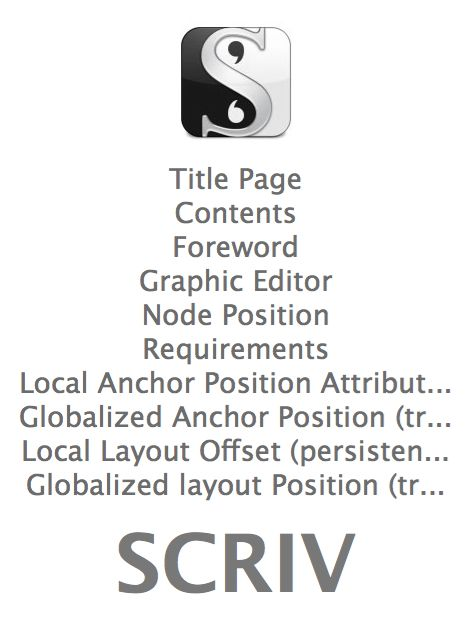
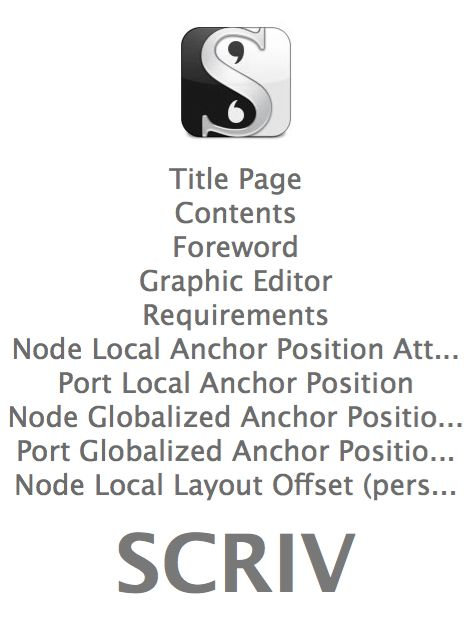
Requirements update for local anchor and layout positions.

Changed region(s): [[0.0, 0.4833, 0.9788, 0.8156]]

diff --git a/Documentation/iCanScript Design.scriv/QuickLook/Preview.html b/Documentation/iCanScript Design.scriv/QuickLook/Preview.html
@@ -42,31 +42,36 @@
 <hr/>
 <ul>
 <li>
-<p class="binderItem"><strong>Node Position</strong></p>
-</li>
-<hr/>
-<ul>
-<li>
 <p class="binderItem"><strong>Requirements</strong></p>
 </li>
 <hr/>
 <ul>
 <li>
-<p class="binderItem"><strong>Local Anchor Position Attribute (persistent)</strong><br/> Req) The local node anchor position is a persistent attribute that maintains the user desired position to the parent node before collision resolution.  The anchor position is relative (local) to the parent node position.  The anchor position of the root node is an exception as it is a global position.<br/>
+<p class="binderItem"><strong>Node Local Anchor Position Attribute (persistent)</strong><br/> Req) The local node anchor position is a persistent attribute that maintains the user desired position to the parent node before collision resolution.  The anchor position is relative (local) to the parent node position.  The anchor position of the root node is an exception as it is a global position.<br/>
  Req) The local anchor position shall not be changed when performing a fold/unfold/iconize operation.<br/>
  Req) The local anchor position shall not be changed when the node is not visible.<br/>
  Req) The l...</p>
 </li>
 <li>
-<p class="binderItem"><strong>Globalized Anchor Position (transient)</strong><br/> Req) The globalized anchor position is the position of the anchor in global space computed by adding the parent globalized layout position to the node’s local anchor position.</p>
+<p class="binderItem"><strong>Port Local Anchor Position</strong></p>
 </li>
 <li>
-<p class="binderItem"><strong>Local Layout Offset (persistent)</strong><br/> Req) The node local layout offset is a persistent attribute that maintains the final display position of the node after the collision algorithm has been applied.  It is derived from the local anchor position on which the node collision algorithm is applied.<br/>
- Req) The local layout offset shall be changed if the user drags the node.  The local anchor position shall also be recomputed to reflect the user drag.<br/>
- Req) The local layout offset shall not be changed if the user drags the parent or any p...</p>
+<p class="binderItem"><strong>Node Globalized Anchor Position (transient)</strong><br/> Req) The globalized anchor position is the position of the anchor in global space computed by adding the parent globalized layout position to the node’s local anchor position.</p>
 </li>
 <li>
-<p class="binderItem"><strong>Globalized layout Position (transient)</strong><br/> Req) The globalized layout position is the display position in global space computed by adding the parent globalized layout position to the node’s local layout position.</p>
+<p class="binderItem"><strong>Port Globalized Anchor Position</strong></p>
+</li>
+<li>
+<p class="binderItem"><strong>Node Local Layout Offset (persistent)</strong><br/> Req) The node local layout offset is a persistent attribute that maintains the final display position of the node after the collision algorithm has been applied.  It is relative to the local anchor position.<br/>
+ Req) The node local layout offset is cleared when the user drags the node.  <br/>
+ Req) The node local layout offset shall not be changed if the user drags the parent or any parent ancestor node.<br/>
+ Req) The node local layout offset shall be changed if the node is involved in a collision resultin...</p>
+</li>
+<li>
+<p class="binderItem"><strong>Port Local Layout Offset</strong></p>
+</li>
+<li>
+<p class="binderItem"><strong>Globalized layout Position (transient)</strong><br/> Req) The globalized layout position for a node or port is the display position in global space computed by adding the parent globalized layout position to the node’s local layout position.</p>
 </li>
 <li>
 <p class="binderItem"><strong>Animated Position (transient)</strong><br/> Req) The node animated global position is a transient attribute that creates a visual transitions of the globalized display position when the node’s display position is autonomously changed by the system.  It is used to avoid user confusion on such operations as fold/unfold/iconize and collision node displacements.<br/>
@@ -88,33 +93,6 @@
  Req) Node collision resolution shall not interfere with user drag operati...</p>
 </li>
 </ul>
-<hr/>
-<li>
-<p class="binderItem"><strong>Node User Drag Algorithm</strong><br/> 1) DragOffset= NewMousePosition-DragStartMousePosition;<br/>
- 2) Node.DisplayPosition= Node.DragStartDisplayPosition+DragOffset;<br/>
- 3) Node.LocalAnchorPosition= Node.DisplayPosition-Node.ParentDisplayPosition<br/>
- 4) Resolve Collision with sibling<br/>
- 5) Recompute parent display size</p>
-</li>
-<li>
-<p class="binderItem"><strong>Node Collision Algorithm</strong></p>
-</li>
-<li>
-<p class="binderItem"><strong>Anchor Relayout</strong><br/>The anchor layout algorithm shall include the following elements:<br/>
- ◆ The anchor position of a drag node is set as-is;<br/>
- ◆ The anchor position of the children of a dragged node is relative to their parent anchor position;<br/>
- ◆ The anchor position of the parent is recomputed if the drag node causes the parent to be resized;<br/>
- ◆ Hierarchical grand-parent anchor positions are recomputed if a new anchor position/size of one of their children forces the grand-parent to be resized.<br/>
-</p>
-</li>
-<li>
-<p class="binderItem"><strong>Node Animation</strong></p>
-</li>
-</ul>
-<hr/>
-<li>
-<p class="binderItem"><strong>Port Position</strong></p>
-</li>
 </ul>
 <hr/>
 <li>
